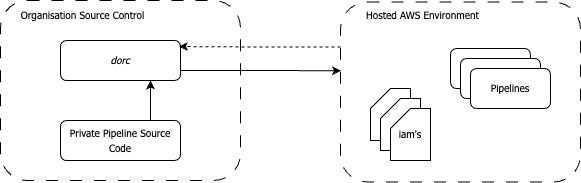
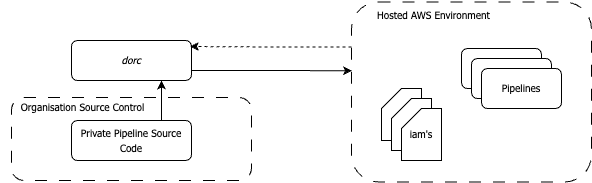
move dorc out of orginisational source control

diff --git a/docs/index.md b/docs/index.md
@@ -4,7 +4,7 @@
 
 ## Overview
 
-For a *dorc* projet, place the dorc repository alongside your pipeline config repository in your organization's source control. The *dorc* repository contains code for infrastructure deployment and Python models for pipeline definition. Separate your pipeline and configuration code in another repository passed to *dorc*.
+For a *dorc* project, place the dorc repository alongside your pipeline config repository. The *dorc* repository contains code for infrastructure deployment and models for config and pipeline definitions.
 
 The visual representation below depicts a typical *dorc* setup, illustrating the above description.
 
